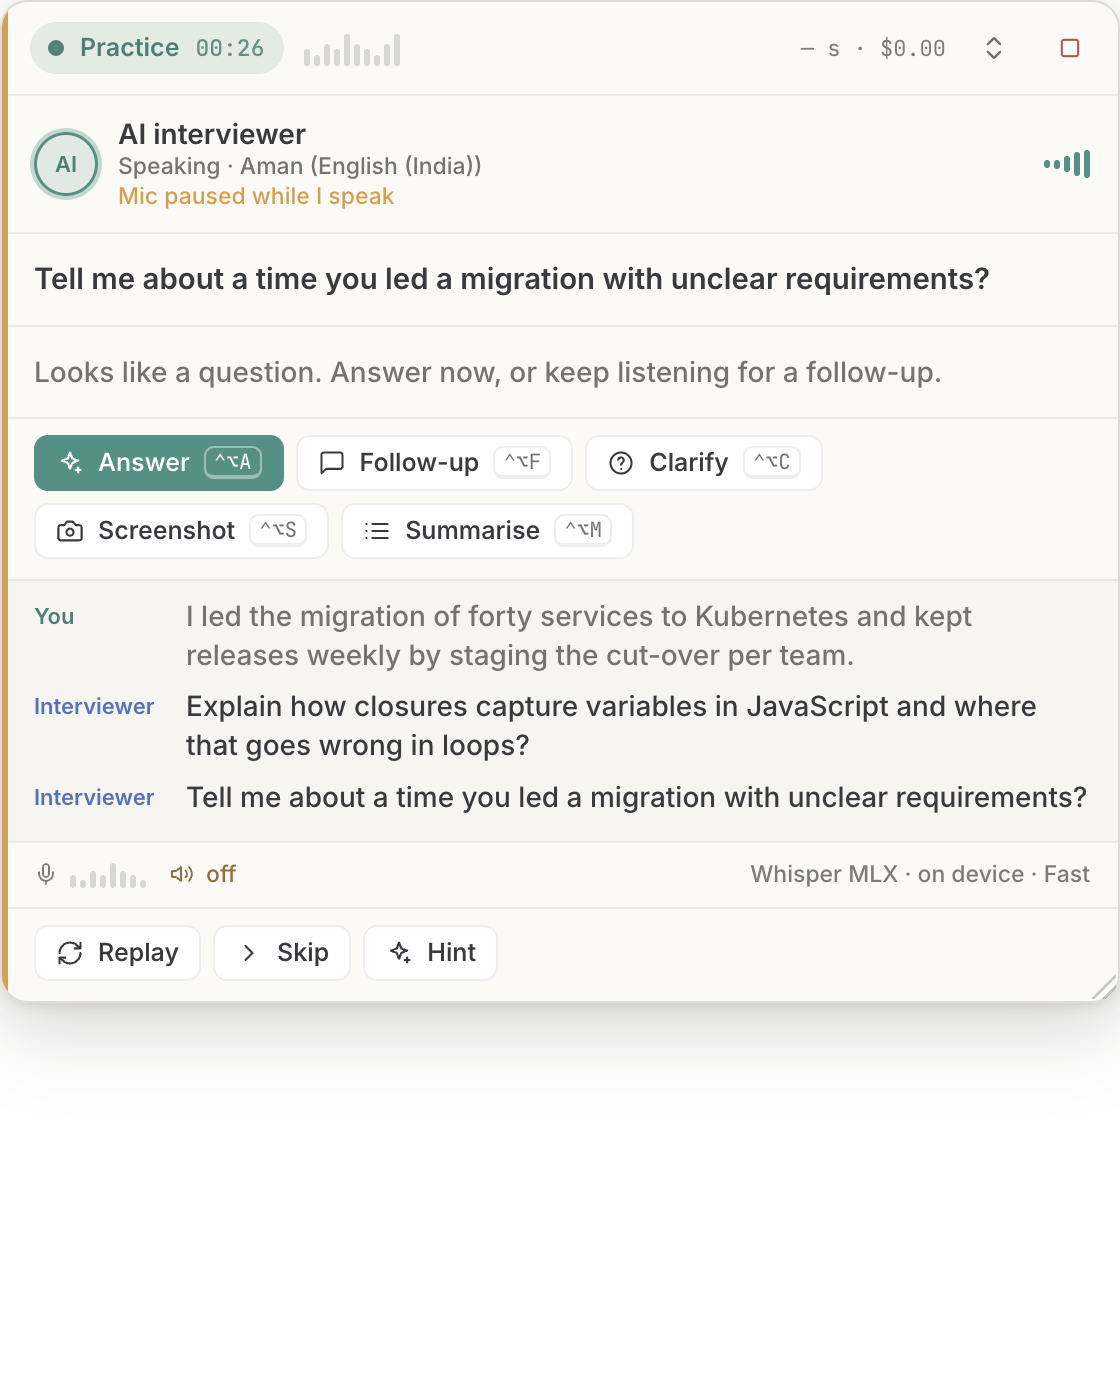
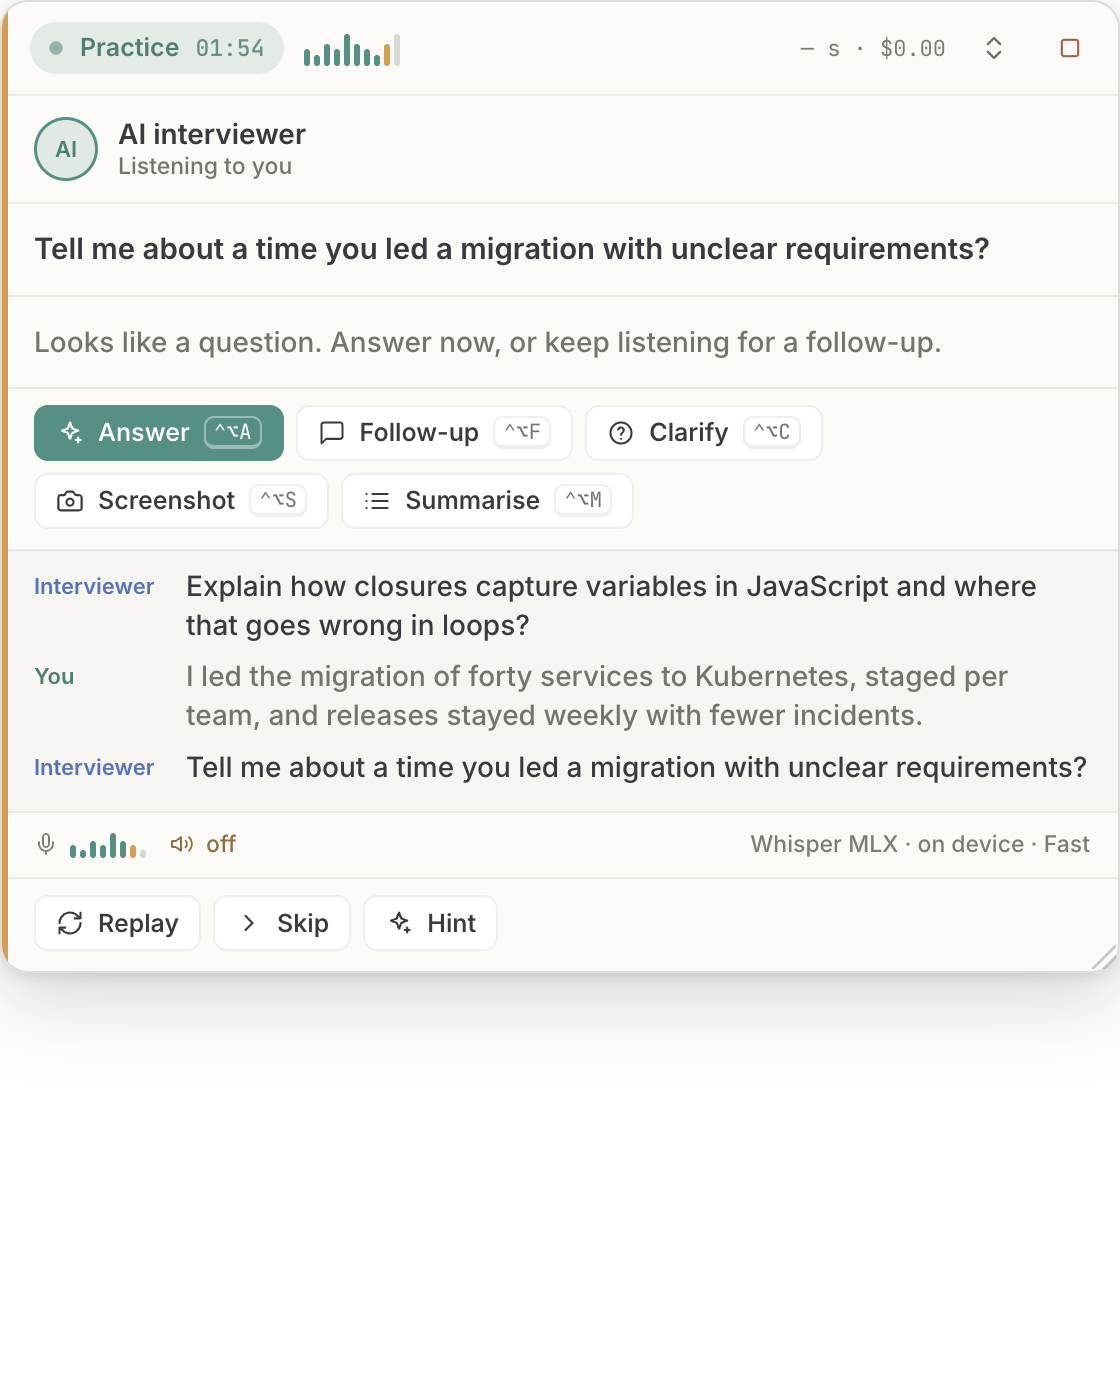
docs: KB-INT QA table, README, session note; QA harness

diff --git a/renderer/components/job/KnowledgeTab.tsx b/renderer/components/job/KnowledgeTab.tsx
@@ -23,7 +23,7 @@ import { useEscape } from '../../hooks/useEscape'
 import { Button } from '@/components/ui/button'
 import { ConsentDialog } from '../kb/ConsentDialog'
 import { KB_CONSENT } from '../kb/consentCopy'
-import { FALLBACK_OPTS, useInterviewConfig } from '../kb/useConfig'
+import { useInterviewConfig } from '../kb/useConfig'
 
 const note = (m: string): void => showToast(m, 'error', 6000)
 
@@ -45,8 +45,8 @@ export function KnowledgeTab({ jobId, jobTitle = 'this job' }: { jobId: string; 
 
   const status = summary?.status ?? 'none'
   useEffect(() => { // the cost/time hint and the "needs a key" fork for the empty states
-    if (status === 'none') kb().kbEstimate(jobId, FALLBACK_OPTS).then(setEstimate, () => setEstimate(null))
-  }, [jobId, status])
+    if (status === 'none') kb().kbEstimate(jobId, DEFAULTS).then(setEstimate, () => setEstimate(null))
+  }, [jobId, status, DEFAULTS.depth, DEFAULTS.budgetUsd, DEFAULTS.minutes]) // eslint-disable-line react-hooks/exhaustive-deps
   useEffect(() => { setSelectedId(null); setFilter(NO_FILTER) }, [jobId])
   useEffect(() => {
     if (!selectedId) { setDetail(null); return }

diff --git a/docs/plans/job-knowledge-base/qa/int/qa.md b/docs/plans/job-knowledge-base/qa/int/qa.md
@@ -1,0 +1,78 @@
+# KB-INT end-to-end QA (cloned profile, fakes, real `say`)
+
+**What ran:** one Electron (unpackaged `dist/`, PID recorded by `scripts/kb-int-e2e/launch.sh`) on a **cloned** profile (`--user-data-dir` copy, keys removed, Singleton* removed) and a **copied** career-ops folder; the user's real data and installed app were never touched.
+**Fakes:** search + web pages + research model = `CL_KB_E2E=1` fixtures (`electron/kb/research/e2e-hooks.ts`, unpackaged only); the answer/probe/rubric model = `scripts/kb-int-e2e/fake-openrouter.mjs` (via `CL_COPILOT_E2E`); mic = Chromium fake device + the STT fixture `answers.jsonl`.
+**Real:** the app's IPC, store, pipeline, selector, runner, overlay, echo gate, playback queue and macOS `say` (en_IN Aman). Live spend: **$0**.
+**Run it:** see `scripts/kb-int-e2e/README.md`. Frames/screenshots (dark + light) are the PNGs in this folder; `session-detail.json` is the stored session.
+
+## Results
+
+| # | Check | Result | Evidence |
+|---|---|---|---|
+| 1.1 | KB tab shows the empty state with a research call-to-action | PASS | Overview / Job search / Jobs / Boards / Resume / Agents / Agent / Monitoring / Runs / Interview / Copilot / Settings / Help / v0.2.0 / Jobs  |
+| 1.2 | First run asks for consent before anything is sent (dialog shown) | PASS | Overview / Job search / Jobs / Boards / Resume / Agents / Agent / Monitoring / Runs / Interview / Copilot / Settings / H |
+| 1.2a | Before consent the research button is locked and a "Review and agree" notice shows | PASS |  |
+| 1.3 | Nothing runs before consent (status none, no run) | PASS | none |
+| 1.4 | Consent stored via interviewSetConfig (consentVersion set) | PASS | 2026-10-v1 |
+| 1.5 | Fake research run finishes (progress seen while running) | PASS | complete items=17 sourced=65% sources=6 cost=$0.052 |
+| 1.6 | Items appear, labelled sourced vs generated | PASS | 17 items: 11 sourced, 6 generated |
+| 1.7 | Sourced items carry sources | PASS |  |
+| 1.8 | KB tab lists the questions with provenance labels | PASS | Overview / Job search / Jobs / Boards / Resume / Agents / Agent / Monitoring / Runs / Interview / Copilot / Settings / Help / v0.2.0 / Jobs  |
+| 1.9 | Runs page shows the research run (Job research, with the job) | PASS | Overview / Job search / Jobs / Boards / Resume / Agents / Agent / Monitoring / Runs / Interview / Copilot / Settings / Help / v0.2.0 / Runs  |
+| 1.10 | Run record is mode job-research with jobId stamped, status done | PASS | [{"mode":"job-research","jobId":"https://www.google.com/about/careers/applications/jobs/results/121538506244661958-senior-software-engineer- |
+| 2.1 | 'Practise this job' opens Practice with the AI interviewer for this job | PASS | 17 questions · 65% sourced |
+| 2.2 | Plan preview comes from KB items and honours includeGenerated=false | PASS | {"all":{"questions":8,"sourced":7,"usd":0.04,"minutes":30},"sourcedOnly":{"questions":8,"sourced":8,"usd":0.04,"minutes":30}} |
+| 2.3 | No playback before an explicit Start (nothing spoke while the form was open) | PASS | 0 kb-e2e log lines before Start, none added |
+| 2.4 | AI interviewer asks KB questions and shows them in the overlay caption | PASS | ["Explain how closures capture variables in JavaScript and where that goes wrong in loops?","Tell me about a time you led a migration with u |
+| 2.5 | Interviewer speaks with the system voice (real `say` process seen, en_IN voice first) | PASS | say -v Aman (English (India)) -r 175 --file-format=WAVE --data-format=LEI16@24000 -o /var/folders/sp/1qs8cbld3_x26yz_rx1z0y440000gn/T/cl-say |
+| 2.6 | Playback events reach main (started/ended) and the gate engages | PASS | [kb-e2e] ttsPlayback started 4e575c78f74f73df35a1f97a32772cf1decbd3b6#2 / [kb-e2e] ttsPlayback ended 4e575c78f74f73df35a1f97a32772cf1decbd3b |
+| 2.7 | Mic frames are dropped while speaking (half-duplex) and the overlay shows the "Mic paused" badge | PASS | drops logged=5 badge=true |
+| 2.8 | Overlay goes listening after the question finishes speaking | PASS |  |
+| 2.9 | Cues and suggestions come through the live path (auto question, hint, answer with SAY/bullets/STAR + fact flags) | PASS | {"questions":4,"suggestions":1,"firstTokenMs":257,"tier":"fast","flags":2} |
+| 2.9a | Typed answer lands as the candidate line | PASS | I led the migration of forty services to Kubernetes and kept releases weekly by staging the cut-over per team. // I led the migration of for |
+| 2.9b | Fake-mic (STT fixture) answer lands as a candidate line too | PASS | 2 candidate lines |
+| 2.10 | Stop ends the voice (cancel) with no say process left | PASS | none |
+| 2.11 | Session stores the interview record: per-question results with KB item ids from this KB | PASS | 2 results; ids in KB=2 |
+| 2.12 | includeGenerated=false: every asked item is sourced | PASS | sourced,sourced |
+| 2.13 | No repeats within the session | PASS | 3 asked |
+| 2.14 | Debrief page lists the session with per-question rubric rows / heat map | PASS |  ⌘K / Interview Copilot / Practice with your own job and résumé, or get live help in a real interview. / Preview overlay / Start live sessio |
+| 2.15 | KbItem.stats written back (asked, lastScore, avgScore) for the asked items | PASS | [{"id":"4e575c78f74f73df35a1f97a32772cf1decbd3b6","a":1,"last":3.6,"avg":3.6},{"id":"f6ae51ab88484c6418ca3711566495ad18715bbd","a":1,"last": |
+| 2.16 | Skill signal written and readable over IPC (interviewSkillSignal) | PASS | {"jobId":"https://www.google.com/about/careers/applications/jobs/results/121538506244661958-senior-software-engineer-core?q=Senior+Software+ |
+| 2.17 | Skill-up tab shows "From your practice sessions" from the signal | PASS | From your practice sessions / Average score per skill from the AI interviewer, weakest first. Skills below are ordered by it. / go · 3.6 of  |
+| 3.1 | Settings > Interview prep page renders research, search, sources and voice groups | PASS | Interview prep / Monitoring / SYSTEM / Data & privacy / Advanced / Interview prep / Job research, search providers and t |
+| 3.2 | Choosing Headphones in Settings is saved to interview.json | PASS | {"engine":"system","voiceId":null,"speed":1,"echo":"headphones","tailMs":350,"pushToInterrupt":"Control+Alt+I"} |
+| 3.3 | Speed and budget are saved (validated, clamped) | PASS | {"speed":1.3,"budget":0.06} |
+| 3.4 | Research budget from Settings applies to a run started in the KB tab (cost stays within $0.06) | PASS | {"status":"complete","cost":0.02} |
+| 3.4a | A request above the hard ceiling is clamped (estimate high end <= $2) | PASS | {"usdLow":0.073,"usdHigh":0.328,"minutes":6,"backend":"brave","needsKey":false} |
+| 3.5 | Practice form starts from Settings: speed 1.30x and Headphones selected | PASS | Speed / 1.30×  |
+| 3.6 | Speed reaches the voice (say -r 228 = 175 wpm x 1.3) | PASS | say -v Aman (English (India)) -r 228 --file-format=WAVE --data-format=LEI16@24000 -o /var/ |
+| 3.7 | Headphones: mic is not paused while the interviewer speaks (no dropped frames, no badge) | PASS | 1 log lines, dropped=0, badge=false |
+| 3.8 | Switching the search provider clears consent (asks again) | PASS | null |
+| 3.9 | KB tab asks again ("Review and agree") after the provider switch | PASS |  |
+
+40/40 pass
+
+## Needs a user run (not possible here: no real keys, no speakers test, no Kokoro install)
+
+| Item | Why not run here | Exact steps |
+|---|---|---|
+| Real Brave search + real pages (S-R1) | no Brave key | Settings > API keys > Brave > Test. Open any evaluated job > Knowledge base > Research (agree once). Expect 40+ questions, ~60% sourced, cost under the shown cap, a run on the Runs page. For the yield table: `CL_LIVE_RESEARCH=1 BRAVE_API_KEY=... OPENROUTER_API_KEY=... node scripts/kb-research-dry.mjs --live --jobs jobs.json --max-usd 1` and fill `spikes/S-R1.md` |
+| Real model practice (G-P) | no OpenRouter key | Settings > API keys > OpenRouter. Practice > AI interviewer > Start. Answer 3 questions by voice or typing. Expect real rubric scores in the debrief (cap $0.50); heat map + `KbItem` stats update |
+| Kokoro voice | not installed (needs ~80 MB + Python wheels, Apple Silicon only) | Settings > Local models > Interviewer voice > Install (progress on Runs). Settings > Interview prep > Voice > Kokoro > Preview. Check first audio < 2.5 s and that a missing install falls back to the system voice with a notice in the overlay |
+| OpenRouter voice | no key, model id `hexgrad/kokoro-82m` unverified | `CL_LIVE_TTS=1 node scripts/tts-latency.mjs --engine openrouter`; confirm the model id in OpenRouter's voice catalogue |
+| Speaker echo (S-E1) | needs real speakers + mic in a quiet room | Speakers mode (default). Practice > Start. Stay silent while two questions play. Expect no interviewer text as a "You" line in the transcript and no spurious answer; then try Headphones and speak over the interviewer (barge-in cancels it) |
+| Push-to-interrupt hotkey | not registered yet (config + gate exist) | see Gaps |
+| Windows | KB, research and typed practice are expected to work; voice is untested | run the KB tab and a typed practice on a Windows build |
+
+## Gaps found and fixed during integration
+- Typed answers were dropped from the transcript whenever speech recognition was running (debrief would miss them): fixed + test.
+- Settings > Interview prep voice defaults never reached the Practice form: fixed + test.
+- The research cost estimate on an empty KB ignored the configured depth/budget: fixed.
+- Job ids are URLs, so the store's id check rejected them while research used a hash folder: one `kbJobDir` for store, research cache and exports.
+
+## Known gaps (not blocking)
+- Push-to-interrupt accelerator is stored but not registered as a global shortcut.
+- `recent` question ids across sessions are not fed to the selector (no repeats within a session only).
+- `kbImport` has no file picker in the UI (IPC works).
+- exa/serper key tests are not implemented (the search call itself is).
+- Research LLM calls each show as their own `job-view` run on the Runs page next to the one `job-research` run.

diff --git a/.claude/memory/session_20261002_kb-int.md b/.claude/memory/session_20261002_kb-int.md
@@ -1,0 +1,35 @@
+---
+name: 20261002-kb-int
+description: KB-INT merged kb-wp1..wp6 into kb-int and wired the seams (store, research, interviewer pool/stats, voice, skill signal); cloned-profile e2e on fakes + real `say`; tag kb-contract-v2
+type: project
+---
+
+**Task:** KB-INT (job knowledge base plan s.11 "Sequencing"): merge WP1-6, wire the packages' reported seams, QA end to end.
+**Branch:** livelong99/kb-int (WP0 was NOT in kb-int yet: fast-forwarded kb-wp0-contract first)
+**Date:** 2026-10-02
+
+**Files changed:**
+- merges (order wp0, wp1, wp2, wp6, wp3, wp4, wp5): conflicts only in `kb/handlers.ts`, `handlers.test.ts`, `stubs.test.ts` (deleted: no stubs left), MEMORY.md (union)
+- `kb/hash.ts`: single hash impl; `queryKey` = sha1(backend\0normalised), `inputHash` = sha1(stable([jd,gaps,role,company])) to match the WP2 pinned vectors; new `kbJobDir`. research/{dedupe,plan,state,wiring} now import it; store + exports use `kbJobDir` (job ids are URLs)
+- `kb/store.ts`: `removeItem`, `findSource`; `kb/runtime.ts` (`getKbStore` = open + `bindKbStore`); `kb/api.ts` + `kb/views.ts` (summary merges research progress/runId, stale = input changed or older than refreshAfterDays, hidden rule, coverage, whyForYou); `kb/handlers.ts` rewritten (no stubs)
+- `kb/voice.ts`: `ttsRuntime()`, `interviewSpeaker(plan)` (Speaker.say resolves on playback ended/cancelled, timeout fallback), plan voice/echo override interview.json for the running interview, `onTtsPlayback`
+- `copilot/defaults.ts`: speaker, `ended` hook, `recordStats` -> store, mic frames through `gateAudioMsg`; `copilot/handlers.ts`: typed answers are always recorded (were dropped when STT ran)
+- contract v2 (additive): `interviewKokoroStatus`, `interviewSkillSignal`, events `interviewerNotice`, `interviewerState.micPaused`, bridge `onTtsAudio`
+- renderer: `useTtsPlayer` (overlay arms only while an interviewer session is active), mic-paused badge + notice, Practice consumes the KB seed (`itemIds` pin) and starts from Settings voice defaults, SkillUpTab signal block + reorder, LocalModels "Interviewer voice" (Kokoro) row, KB estimate uses configured options
+- QA: `kb/research/e2e-hooks.ts` (`CL_KB_E2E=1`, unpackaged only: fixture search/web/LLM), `scripts/kb-int-e2e/*`, evidence + `qa.md` in `docs/plans/job-knowledge-base/qa/int/`
+
+**Decisions made:**
+- One job folder name `sha1(jobId)[0:24]` everywhere (store, research cache, export file); the store no longer rejects URL-ish ids. Alternative: slugging ids (collisions).
+- Interview plan's voice/echo win over interview.json while a session runs; Settings values seed the Practice form (they were not applied before).
+- Speaker waits for the overlay's playback event, with a length-based timeout so a missing window never stalls the interview.
+- Hidden research items are hidden, user items deleted (`kbItemRemove`), so a refresh never resurrects what the user dismissed.
+
+**Patterns used / confirmed:** CDP QA on a cloned profile (`launch.sh` records the PID; never kill by name); fake OpenRouter extended with rubric/checklist replies; real `say` for the voice.
+
+**Blockers & resolutions:** pre-commit hook rejects command lines with `-n`/`-q`-like flags next to `git commit` => run `git commit -m` alone. Radix tabs need mousedown in CDP (`press`). The fixture web has no skill tags for real postings => QA tags items via `kbItemUpdate`.
+
+**State:** done (see qa.md for the table and the "needs user run" list)
+
+**Next steps:**
+- User runs: real Brave key + real research (`CL_LIVE_RESEARCH`), real OpenRouter practice (G-P), Kokoro install + voice, speaker echo self-test (S-E1), see qa.md
+- Candidate: cross-session `recent` ids for the selector; push-to-interrupt hotkey registration; kbImport file picker; search-key test for exa/serper

diff --git a/scripts/kb-int-e2e/README.md b/scripts/kb-int-e2e/README.md
@@ -1,0 +1,11 @@
+# KB integration QA (cloned profile, no key, no spend)
+
+Dev-only. Never point this at the real profile, career-ops folder or installed app.
+
+1. `QA=<scratch>`; clone: `/bin/cp -cR ~/Library/Application\ Support/careerloom $QA/profile` and `/bin/cp -cR <career-ops> $QA/career-ops`; delete `Singleton*`, `DevToolsActivePort`, `*.key`, `kb/` from the profile; set `root` in `$QA/profile/settings.json` to the copy.
+2. `$QA/e2e.json`: `{"baseUrl":"http://127.0.0.1:8788/api/v1","sttFixture":"<repo>/scripts/kb-int-e2e/answers.jsonl"}`.
+3. `node fake-openrouter.mjs 8788 $QA/server.log &` (record the PID; kill it by PID).
+4. `npm run build`, then `QA=$QA ELECTRON=<an Electron binary> scripts/kb-int-e2e/launch.sh` (starts ONE Electron with `CL_KB_E2E=1` + `CL_COPILOT_E2E`, PID in `$QA/app.pid`; stop it with `kill $(cat $QA/app.pid)`, never by name).
+5. `CDP_PORT=9341 QA=$QA node qa1-research.mjs; ... qa2-practice.mjs; ... qa3-settings.mjs` (each records PASS/FAIL into `docs/plans/job-knowledge-base/qa/int/results.json` and writes dark/light PNGs); `node qa-md.mjs` prints the table.
+
+Real `say` speaks during qa2/qa3 (a few seconds). Fake search/pages/model come from `electron/kb/research/fixtures` through `e2e-hooks.ts` (ignored by packaged builds).

diff --git a/.claude/memory/MEMORY.md b/.claude/memory/MEMORY.md
@@ -7,6 +7,7 @@
 - [agy headless permissions](reference_agy_headless_permissions.md) — agy project grants + --project/--mode accept-edits; Careerloom's scoped 'careerloom' project
 
 ## Session history (newest first; "Next steps" in older files are superseded by the overview)
+- [20261002 KB INT](session_20261002_kb-int.md) — merged KB WP1-6, wired store/research/interviewer/voice seams, one hash + job-folder name, contract v2; cloned-profile e2e on fakes + real `say`
 - [20261002 KB WP5 TTS](session_20261002_kb-wp5-tts.md) — TTS service/engines (system en_IN, hashed Kokoro install, OpenRouter), echo gate, gapless queue; S-V1/S-T1 numbers, S-E1 deferred
 - [20261002 KB WP4](session_20261002_kb-wp4.md) — AI interviewer engine + Practice (text first): selector/probe/score/runner, live-path parity seam, Practice form, overlay row/controls, debrief heat map
 - [20261002 KB WP3 UI](session_20261002_kb-wp3-ui.md) — Job › Knowledge base tab on the kb contract: fake backend (?fakeKb), 7 states dark+light, RTL + a11y tests
